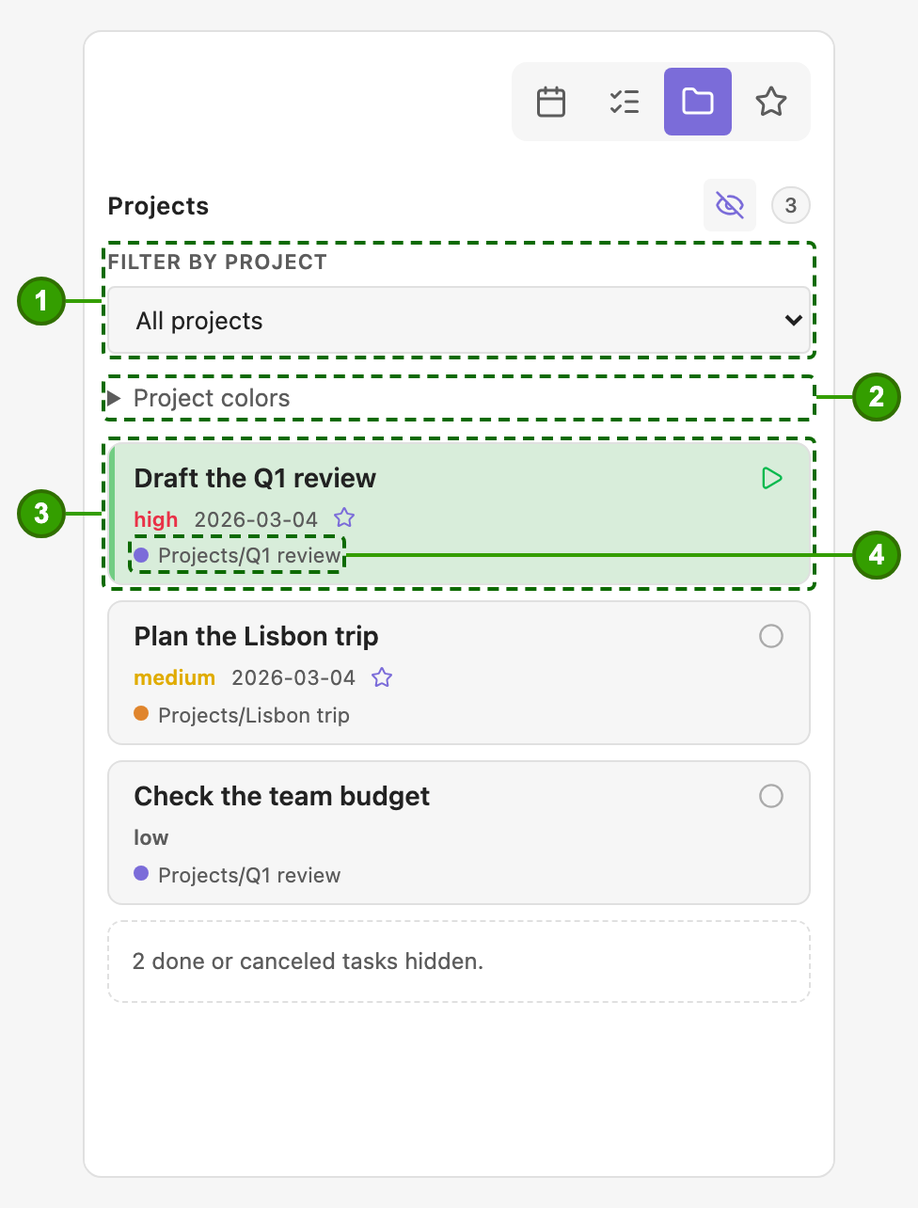
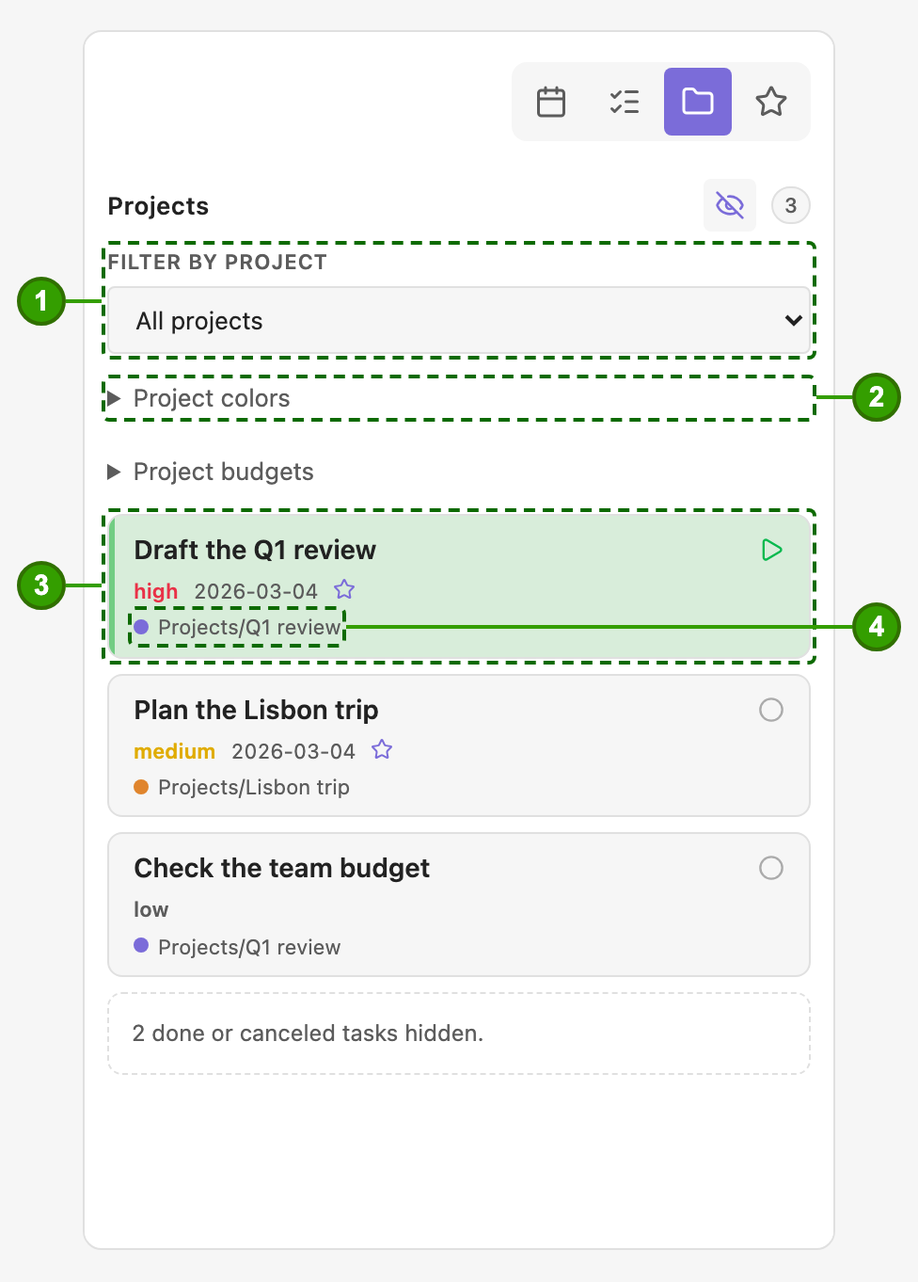
What's new: show only the running release; reorganise the 0.1.4 note with figures; refresh README screenshots

diff --git a/src/whatsNew/releaseNotes.ts b/src/whatsNew/releaseNotes.ts
@@ -4,7 +4,7 @@
  * Shown once per device per release: `settings.lastSeenVersion` remembers the newest version the person has been told about
  * (never synced on purpose), and `notesToShow` picks the entries newer than that and not newer than the version that is
  * running. Only the `X.Y.Z` part is compared, so every beta of a version counts as that version: a tester sees its note on the
- * first beta that has it, not again on later betas or on the stable release. Notes stack within a minor line: never delete an
+ * first beta that has it, not again on later betas or on the stable release. Notes stack within a minor line so a device that skipped a release is told about each: never delete an
  * earlier entry of the line you are in (`npm run check-release` fails if you do). A fresh install is told nothing, it gets the
  * onboarding card instead. See docs/onboarding-and-whats-new.md.
  */
@@ -29,21 +29,17 @@ export const RELEASE_NOTES: ReleaseNote[] = [
   {
     version: "0.1.4",
     title: "What's new in Organized 0.1.4",
-    intro: "Block time for the future, and see estimate next to actual.",
+    intro: "Repeat rules, planned time and budgets, and safer use on several devices. These are the changes since 0.1.3.",
     items: [
-      { title: "Calendar follows your daily note", text: "Open or create a daily note and the side panel's calendar and day view move to that day. Paging to another day in the day view opens that day's daily note when it exists." },
+      { title: "Repeat rules", text: "Type [r] in a todo, or tap the Recurring pill, to choose how it repeats: one tap for every day, weekday, week, month or year, or set your own, such as every 3 weeks on Monday and Thursday, with a form that says the result in words. The rule is saved in the task note, and the task shows up in the daily notes that match it.", figure: "repeat" },
+      { title: "Plan time ahead", text: "Tap an empty spot on the Day grid, or use Add time with a time still to come, to set aside time for a task today or on a day ahead. Planned blocks are dashed and never count as worked time; one that is over can be logged as worked. The task's Timer card shows Tracked so far and Planned, so you can compare your estimate with what it took. A setting under Task behavior (off by default) sets a task in progress when its planned block begins.", figure: "plan" },
+      { title: "Time budgets", text: "Set a budget on a task's Timer card, or a total, daily, weekly or monthly budget on a project (Projects tab, or the project note's properties). A slim bar shows tracked and planned time against it, with what is left in words; go over and it grows red. No budget, no bar." },
+      { title: "A calmer task panel", text: "Priority, schedule, recurring and projects are small pills in one row, the Timer is one line with icon buttons, and Description, Subtasks and Timer fold away and stay folded for every task. Tap a project pill to open its note." },
+      { title: "Follows your daily note", text: "Organized uses the folder, filename format and template of the core Daily Notes plugin (or Periodic Notes) automatically (Settings → Organized → Daily notes switches back to custom values; installs that already set them keep them). Open or create a daily note and the side panel's calendar moves to that day; paging the day view on a desktop opens that day's note, and on a phone it opens when you close the panel." },
+      { title: "Several devices without sync conflicts", text: "Settings → Organized → This device: set a phone or tablet to Secondary (it edits tasks but never creates or fills daily notes) or Mirror (view only; every change is refused with a notice). The choice stays on that device. Use it where a daily note may be opened before your main device has synced it.", figure: "devices" },
       { title: "Repairs for recurring tasks", text: "Two commands: Add missing recurring tasks to this daily note, and Remove duplicate recurring lines in this note (for a note two devices both filled). Task notes that Organized has to leave out, such as sync conflict copies, are now named in a notice instead of silently not repeating." },
-      { title: "Several devices without sync conflicts", text: "Settings → Organized → This device: set a phone or tablet to Secondary (it edits tasks but never creates or fills daily notes) or Mirror (view only; every change is refused with a notice). The choice stays on that device. Use it where a daily note may be opened before your main device has synced it." },
-      { title: "Project picker from the keyboard", text: "Arrow keys move through the projects, Enter ticks one, Enter in the search box picks the best match and Ctrl/Cmd+Enter saves. On a phone the list stays above the keyboard so every project can be reached." },
-      { title: "Follows your Daily Notes plugin", text: "Organized now uses the folder, filename format and template of the core Daily Notes plugin (or Periodic Notes) automatically, so there is nothing to copy over. Settings → Organized → Daily notes lets you switch back to custom values; installs that already set them keep them." },
-      { title: "Repeat rules", text: "Type [r] in a todo, or tap the Recurring pill, to choose how it repeats: one tap for every day, weekday, week, month or year, or set your own, such as every 3 weeks on Monday and Thursday, with a form that says the result in words. The rule is saved in the task note, and the task shows up in the daily notes that match it." },
-      { title: "Plan time ahead", text: "Tap an empty spot on the Day grid, or use Add time with a time still to come, to set aside time for a task today or on a day ahead. Planned blocks are dashed and never count as worked time; one that is over can be logged as worked." },
-      { title: "Tracked and planned on the task", text: "The task's Timer card shows Tracked so far and Planned, so you can compare your estimate with what it took." },
-      { title: "Fold the task panel", text: "Description, Subtasks and Timer fold away with a chevron and stay folded for every task. The Timer now has icon buttons (start or stop, add time, budget) on its header row." },
-      { title: "A denser task panel", text: "Priority, schedule, recurring and projects are now small pills in one row, the Timer is one line with its buttons side by side, and an empty description is one button. Tap a project pill to open its note." },
-      { title: "Project time budgets", text: "Give a project a total, daily, weekly or monthly budget (Projects tab, or the project note's properties). Every task in it shows a bar per budget, counting all the project's tasks. No budget, nothing shown." },
-      { title: "Time budget", text: "Set a budget on the Timer card and a slim bar shows tracked and planned time against it, with what is left in words. Go over and the bar grows with the overrun in red. No budget, no bar." },
-      { title: "Tasks start at their planned time", text: "A new setting under Task behavior, off by default: while Obsidian is open, a task is set in progress when its planned block begins (no timer starts) and back to open, with a notice, when it ends." },
+      { title: "Project picker from the keyboard", text: "Arrow keys and Tab move through the search box, the projects and Save links, Enter ticks one, Enter in the search box picks the best match and Ctrl/Cmd+Enter saves. On a phone the list stays above the keyboard so every project can be reached." },
+      { title: "Steadier on a phone", text: "Tapping outside the press-and-hold menu closes it without ticking the todo, and a todo's priority and projects that do not fit its line stay right-aligned on a row of their own." },
     ],
   },
   {
@@ -79,40 +75,45 @@ function compare(a: [number, number, number], b: [number, number, number]): numb
   return 0;
 }
 
-/**
- * The entries to show: newer than `lastSeen`, not newer than `current`, oldest first, so someone who skipped a release is
- * told about both in the order they happened. An empty or unreadable `lastSeen` means "never told anything"; an
- * unreadable `current` shows nothing rather than guessing.
- */
-export function notesToShow(lastSeen: string, current: string, notes: ReleaseNote[] = RELEASE_NOTES): ReleaseNote[] {
+/** Every note not newer than `current`, oldest first. */
+function upTo(current: string, notes: ReleaseNote[]): ReleaseNote[] {
   const cur = baseVersion(current);
   if (!cur) return [];
-  const seen = baseVersion(lastSeen) ?? [0, 0, 0];
   return notes
     .filter((n) => {
       const v = baseVersion(n.version);
-      return v !== null && compare(v, seen) > 0 && compare(v, cur) <= 0;
+      return v !== null && compare(v, cur) <= 0;
     })
     .sort((a, b) => compare(baseVersion(a.version) as [number, number, number], baseVersion(b.version) as [number, number, number]));
 }
 
 /**
- * What the "Show what's new" command opens: every note of the running minor line (0.9.0 and 0.9.1 for a 0.9.1), oldest
- * first, so someone can look back at the whole line on demand. The popup after an update shows each release only once;
- * this is the way back. A version whose line has no note of its own falls back to the newest note there is.
+ * The entries to show: newer than `lastSeen`, not newer than `current`, oldest first, so someone who skipped a release is
+ * told about both in the order they happened. An empty or unreadable `lastSeen` is not "the whole history": a device that
+ * has never been told anything gets the note of the running release only. An unreadable `current` shows nothing rather
+ * than guessing.
+ */
+export function notesToShow(lastSeen: string, current: string, notes: ReleaseNote[] = RELEASE_NOTES): ReleaseNote[] {
+  const seen = baseVersion(lastSeen);
+  if (!seen) {
+    const latest = latestNote(current, notes);
+    return latest ? [latest] : [];
+  }
+  return upTo(current, notes).filter((n) => compare(baseVersion(n.version) as [number, number, number], seen) > 0);
+}
+
+/**
+ * What the "Show what's new" command opens: the note of the running release, i.e. what changed since the last stable one,
+ * not the history of the line. The popup after an update shows each release only once; this is the way back. A version
+ * without a note of its own falls back to the newest note there is.
  */
 export function notesOfLine(current: string, notes: ReleaseNote[] = RELEASE_NOTES): ReleaseNote[] {
-  const cur = baseVersion(current);
-  const line = notesToShow("", current, notes).filter((n) => {
-    const v = baseVersion(n.version);
-    return cur !== null && v !== null && v[0] === cur[0] && v[1] === cur[1];
-  });
   const latest = latestNote(current, notes);
-  return line.length > 0 ? line : latest ? [latest] : [];
+  return latest ? [latest] : [];
 }
 
 /** The newest note that is not newer than `current`. */
 export function latestNote(current: string, notes: ReleaseNote[] = RELEASE_NOTES): ReleaseNote | null {
-  const all = notesToShow("", current, notes);
+  const all = upTo(current, notes);
   return all.length > 0 ? all[all.length - 1] : null;
 }

diff --git a/src/onboardingFigures.ts b/src/onboardingFigures.ts
@@ -8,9 +8,9 @@ import { LONG_PRESS_MARKERS } from "./longPress";
  * screenshots: they follow the user's theme and font, add almost nothing to the plugin's size and cannot go stale the way
  * a picture does. They are decoration (aria-hidden, not interactive); the step's text carries the meaning.
  */
-export type FigureId = "settings" | "tabs" | "calendar" | "follow" | "forward" | "card" | "props" | "keys" | "commands" | "press" | "hotkey";
+export type FigureId = "settings" | "tabs" | "calendar" | "follow" | "forward" | "card" | "props" | "keys" | "commands" | "press" | "hotkey" | "repeat" | "plan" | "devices";
 /** Every figure id; the tests walk it so a new figure cannot ship undrawn. */
-export const FIGURE_IDS: FigureId[] = ["settings", "tabs", "calendar", "follow", "forward", "card", "props", "keys", "commands", "press", "hotkey"];
+export const FIGURE_IDS: FigureId[] = ["settings", "tabs", "calendar", "follow", "forward", "card", "props", "keys", "commands", "press", "hotkey", "repeat", "plan", "devices"];
 
 const box = (host: HTMLElement, marker: string): void => {
   const b = host.createSpan({ cls: "organized-welcome-fig-box", text: marker === "x" ? "" : marker.trim(), attr: { "data-marker": marker } });
@@ -152,7 +152,20 @@ function hotkeyFigure(fig: HTMLElement): void {
   row.createSpan({ cls: "organized-welcome-fig-pill", text: "Alt + X" });
 }
 
-const BUILDERS: Record<FigureId, (fig: HTMLElement) => void> = { settings: settingsFigure, tabs: tabsFigure, calendar: calendarFigure, follow: followFigure, forward: forwardFigure, card: cardFigure, props: propsFigure, keys: keysFigure, commands: commandsFigure, press: pressFigure, hotkey: hotkeyFigure };
+/** A row of the figure: a label chip and what it does. */
+const chipRows = (fig: HTMLElement, rows: [string, string][]): void => {
+  const list = fig.createDiv({ cls: "organized-welcome-fig-rows" });
+  for (const [chip, role] of rows) {
+    const row = list.createDiv({ cls: "organized-welcome-fig-row" });
+    row.createSpan({ cls: "organized-welcome-fig-pill", text: chip });
+    row.createSpan({ cls: "organized-welcome-fig-row-role", text: role });
+  }
+};
+const repeatFigure = (fig: HTMLElement): void => chipRows(fig, [["Every day", "One tap"], ["Weekdays", "Monday to Friday"], ["Custom", "Every 3 weeks on Monday and Thursday"]]);
+const planFigure = (fig: HTMLElement): void => chipRows(fig, [["09:00–10:30", "Draft the Q1 review (planned)"], ["10:30–11:00", "Reply to Anna (planned)"], ["Tracked 1h 13min", "of 1h 30min planned"]]);
+const devicesFigure = (fig: HTMLElement): void => chipRows(fig, [["Main", "Edits and fills daily notes"], ["Secondary", "Edits, never creates daily notes"], ["Mirror", "View only"]]);
+
+const BUILDERS: Record<FigureId, (fig: HTMLElement) => void> = { settings: settingsFigure, tabs: tabsFigure, calendar: calendarFigure, follow: followFigure, forward: forwardFigure, card: cardFigure, props: propsFigure, keys: keysFigure, commands: commandsFigure, press: pressFigure, hotkey: hotkeyFigure, repeat: repeatFigure, plan: planFigure, devices: devicesFigure };
 
 /** Draw the illustration `id` into `parent`. */
 export function renderFigure(parent: HTMLElement, id: FigureId): HTMLElement {

diff --git a/scripts/screenshots/entry.ts b/scripts/screenshots/entry.ts
@@ -15,7 +15,7 @@ const make = (id: string, title: string, rest: Partial<Task>): Task => ({ ...new
 const move = (id: number, kind: Movement['kind'], from: number, to: number): Movement => ({ id: `m${id}`, kind, source: 'manual', from: day(from), to: day(to), at: at(from, 20) });
 const review = 'Projects/Q1 review.md', lisbon = 'Projects/Lisbon trip.md', workshop = 'Projects/Workshop.md';
 const tasks: Task[] = [
-  make('q1review01', 'Draft the Q1 review', { movement_history: [move(1, 'schedule', 1, 1), move(2, 'forward', 1, 2), move(3, 'forward', 2, 3), move(4, 'forward', 3, 4)], status: 'in_progress', priority: 'high', starred: true, projects: [review], scheduled: day(4), time_tracking_started_at: at(4, 14, 30), time_tracked_seconds: 5400, work_sessions: [{ start: at(4, 9, 20), end: at(4, 10, 15) }, { start: at(4, 13), end: at(4, 14) }, { start: at(3, 14), end: at(3, 16, 30) }, { start: at(2, 10), end: at(2, 11, 30) }] }),
+  make('q1review01', 'Draft the Q1 review', { movement_history: [move(1, 'schedule', 1, 1), move(2, 'forward', 1, 2), move(3, 'forward', 2, 3), move(4, 'forward', 3, 4)], status: 'in_progress', priority: 'high', starred: true, recurring: true, recurrence: 'every 3 weeks on thu', recurrence_periods: [{ start: day(1), stop: null }], time_budget_seconds: 4 * 3600, planned_sessions: [{ start: at(4, 16), end: at(4, 17, 30) }], projects: [review], scheduled: day(4), time_tracking_started_at: at(4, 14, 30), time_tracked_seconds: 5400, work_sessions: [{ start: at(4, 9, 20), end: at(4, 10, 15) }, { start: at(4, 13), end: at(4, 14) }, { start: at(3, 14), end: at(3, 16, 30) }, { start: at(2, 10), end: at(2, 11, 30) }] }),
   make('anna000001', 'Reply to Anna about the offsite', { status: 'completed', closed_at: at(4, 9), work_sessions: [{ start: at(4, 8, 30), end: at(4, 9, 15) }] }),
   make('lisbon0001', 'Plan the Lisbon trip', { priority: 'medium', starred: true, projects: [lisbon], scheduled: day(4), work_sessions: [{ start: at(4, 10, 30), end: at(4, 11, 45) }, { start: at(3, 9), end: at(3, 10) }] }),
   make('dentist001', 'Book the dentist', { scheduled: day(4) }),

diff --git a/src/tests/whatsNew.test.ts b/src/tests/whatsNew.test.ts
@@ -20,9 +20,10 @@ describe("notesToShow", () => {
   it("shows everything newer than last seen up to the running version, oldest first", () => {
     expect(notesToShow("1.1.0", "1.2.1", NOTES).map((n) => n.version)).toEqual(["1.2.0", "1.2.1"]);
   });
-  it("treats an empty or unreadable last-seen as never told anything", () => {
+  it("gives an empty or unreadable last-seen the running release only, not the whole history", () => {
     expect(notesToShow("", "1.1.0", NOTES).map((n) => n.version)).toEqual(["1.1.0"]);
-    expect(notesToShow("junk", "1.1.0", NOTES).map((n) => n.version)).toEqual(["1.1.0"]);
+    expect(notesToShow("junk", "1.2.1", NOTES).map((n) => n.version)).toEqual(["1.2.1"]);
+    expect(notesToShow("", "0.1.0", NOTES)).toEqual([]);
   });
   it("does not repeat a note for a beta of a version already seen", () => {
     expect(notesToShow("1.2.0", "1.2.0-beta.3", NOTES)).toEqual([]);
@@ -31,13 +32,13 @@ describe("notesToShow", () => {
     expect(notesToShow("", "dev", NOTES)).toEqual([]);
   });
   it("uses the shipped list by default", () => {
-    expect(notesToShow("", "999.0.0").length).toBe(RELEASE_NOTES.length);
+    expect(notesToShow("", "999.0.0")).toEqual([RELEASE_NOTES[0]]);
   });
 });
 
 describe("notesOfLine / latestNote", () => {
-  it("returns every note of the running minor line, oldest first", () => {
-    expect(notesOfLine("1.2.1", NOTES).map((n) => n.version)).toEqual(["1.2.0", "1.2.1"]);
+  it("returns the note of the running release only", () => {
+    expect(notesOfLine("1.2.1", NOTES).map((n) => n.version)).toEqual(["1.2.1"]);
   });
   it("falls back to the newest earlier note when the line has none", () => {
     expect(notesOfLine("1.3.0", NOTES).map((n) => n.version)).toEqual(["1.2.1"]);

diff --git a/src/tests/whatsNewFlow.dom.test.ts b/src/tests/whatsNewFlow.dom.test.ts
@@ -72,9 +72,9 @@ describe('an update', () => {
     expect([...news()[0].contentEl.querySelectorAll('h3')].map(n => n.textContent)).toEqual(["What's new in Organized 0.1.2", "What's new in Organized 0.1.3"]);
     expect((await s.saved()).lastSeenVersion).toBe('0.1.3');
   });
-  it('tells someone who already saw 0.1.2 only about 0.1.3, and a pre-feature install about both', async () => {
+  it('tells someone who already saw 0.1.2 only about 0.1.3, and a pre-feature install only about the running release', async () => {
     await start({ data: stored({ onboardingSeen: true, lastSeenVersion: '0.1.2' }), version: '0.1.3' }); expect(news()[0].notes.map(n => n.version)).toEqual(['0.1.3']);
-    await start({ data: stored({ taskFolder: 'Tasks' }), version: '0.1.3' }); expect(news()[0].notes.map(n => n.version)).toEqual(['0.1.2', '0.1.3']);
+    await start({ data: stored({ taskFolder: 'Tasks' }), version: '0.1.3' }); expect(news()[0].notes.map(n => n.version)).toEqual(['0.1.3']);
   });
   it('treats every beta of a version as that version, so later betas and the stable release stay quiet', async () => {
     for (const version of ['0.1.2-beta.8', '0.1.2-beta.99', '0.1.2']) { await start({ data: seen('0.1.2-beta.7'), version }); expect(news(), version).toHaveLength(0); }

diff --git a/src/tests/onboarding.dom.test.ts b/src/tests/onboarding.dom.test.ts
@@ -4,6 +4,7 @@ import { describe, expect, it } from "vitest";
 import { installObsidianDom } from "./__mocks__/obsidianDom";
 import { ONBOARDING_STEPS } from "../onboarding";
 import { FIGURE_IDS, renderFigure } from "../onboardingFigures";
+import { RELEASE_NOTES } from "../whatsNew/releaseNotes";
 
 installObsidianDom();
 const css = readFileSync("styles.css", "utf8");
@@ -17,7 +18,7 @@ describe("onboarding content and figures", () => {
       if (step.figure) expect(FIGURE_IDS).toContain(step.figure);
     }
     // Every figure is used by some step, so none ships undrawn or unused.
-    expect(new Set(ONBOARDING_STEPS.flatMap(s => s.figure ?? []))).toEqual(new Set(FIGURE_IDS));
+    expect(new Set([...ONBOARDING_STEPS.flatMap(s => s.figure ?? []), ...RELEASE_NOTES.flatMap(n => n.items.flatMap(i => i.figure ?? []))])).toEqual(new Set(FIGURE_IDS));
   });
   it("draws every figure as aria-hidden decoration that uses only styled classes", () => {
     for (const id of FIGURE_IDS) {

diff --git a/src/main.ts b/src/main.ts
@@ -172,7 +172,7 @@ export default class Organized extends Plugin {
   showOnboarding(remember: boolean): void {
     new OnboardingModal(this.app, () => { if (remember && !this.settings.onboardingSeen) { this.settings.onboardingSeen = true; this.settings.lastSeenVersion = this.manifest.version; this.saveSettings(false); } }).open();
   }
-  /** Opens this version's notes again (the whole minor line, oldest first), whatever has been shown before. */
+  /** Opens the note of this release again (what changed since the last stable one), whatever has been shown before. */
   showWhatsNew(): void {
     const notes = notesOfLine(this.manifest.version);
     if (!notes.length) { new Notice(`There are no release notes for ${this.manifest.version}.`); return; }

diff --git a/README.md b/README.md
@@ -112,13 +112,13 @@ That is all a todo costs until it needs more: a title and a status. No empty for
 - **2** · A row per day; tap it to open that day.
 - **3** · The bars are the time tasks were in progress, in the colour of their project.
 
-<img src="resources/screenshots/day-annotated.png" alt="The Calendar tab in day view: the day's tasks above a time grid with a block for each stretch of work and a line for the current time." width="360">
+<img src="resources/screenshots/day-annotated.png" alt="The Calendar tab in day view: the day's tasks above a time grid with a block for each stretch of work, a dashed planned block and a line for the current time." width="360">
 
 - **1** · A task of the day with its status, priority, date, star and project.
 - **2** · Finished tasks stay in the list, marked done.
 - **3** · A plain, unlinked todo from the daily note is listed too; it is labelled *Regular todo*.
 - **4** · **Add time worked** by hand, or tap any block to correct it. Tap an empty spot on the grid to plan an hour there; planned blocks have a dashed outline and can be anywhere, including days ahead. A planned block that is over can be logged as worked.
-- **5** · The time grid: a block for each stretch of work, overlapping blocks side by side.
+- **5** · The time grid: a block for each stretch of work, overlapping blocks side by side. The dashed block after the now line is planned time (here 16:00–17:30), not yet worked.
 - **6** · The line for **now**.
 
 ### Projects
@@ -198,7 +198,7 @@ flowchart TB
 
 The first time Organized starts on a fresh install it shows a short **onboarding card**: twelve steps with small illustrations: the two settings to make first, the idea behind the plugin, the side panel and calendar, showing task properties in the note, the checkbox letters, pressing and holding on a phone, jumping into a checkbox from the keyboard, and how to start and leave. Skip it whenever you like; it appears once. Reopen it with the command **Organized: Show onboarding card** or the **Onboarding card** button in **Settings → Organized → Help**.
 
-After an update, Organized shows a short **What's new** note once, instead of the tour (a fresh install never sees it). Reopen the notes for your version with **Organized: Show what's new**, or switch them off with **Show what's new after updates** under **Settings → Organized → Help**.
+After an update, Organized shows a short **What's new** note once, instead of the tour (a fresh install never sees it). The note covers what changed since the last stable release, not the whole history. Reopen it with **Organized: Show what's new**, or switch them off with **Show what's new after updates** under **Settings → Organized → Help**.
 
 ## Leaving Organized
 

diff --git a/docs/onboarding-and-whats-new.md b/docs/onboarding-and-whats-new.md
@@ -25,13 +25,13 @@ Obsidian Sync can carry `data.json` to other devices, so "per device" is a hope,
 About a second and a half after `onLayoutReady` (Obsidian runs that at once when the plugin is switched on in a running session), never while writes are paused:
 
 1. Tour owed (`onboardingSeen` false): show the tour; closing it sets `onboardingSeen` and `lastSeenVersion`. No What's new meanwhile.
-2. Otherwise, with `showWhatsNew` on and notes newer than `lastSeenVersion` and not newer than the running version: record `lastSeenVersion`, wait for the save, then open the popup.
+2. Otherwise, with `showWhatsNew` on and notes newer than `lastSeenVersion` and not newer than the running version (a device with no `lastSeenVersion` gets only the running release's note, never the whole history): record `lastSeenVersion`, wait for the save, then open the popup.
 
 There is no "real start" test and no restart notice. If this code is running, this version is the one that is loaded, and its commands, settings group and views were registered by this same `onload`; a file swap that left old code running cannot run this code at all. The delay is only so the card does not open under the settings window that switched the plugin on. Unverified until a device confirms it: that a BRAT update reloads the plugin so this `onload` runs (otherwise nothing shows until the plugin is next toggled or Obsidian restarts).
 
 A beta counts as its stable version (`0.1.2-beta.9` is `0.1.2`): a tester sees the note once, on the first beta that has it. To see it again on a device: Settings → Help → turn **Show what's new after updates** off and on (this clears `lastSeenVersion`), then restart.
 
-Manual ways in: commands **Show onboarding card** and **Show what's new** (the whole running minor line), and the two buttons under Settings → Help.
+Manual ways in: commands **Show onboarding card** and **Show what's new** (the running release's note only, not the history of the line), and the two buttons under Settings → Help.
 
 ## Writing the note
 

diff --git a/CHANGELOG.md b/CHANGELOG.md
@@ -2,6 +2,7 @@
 
 ## Unreleased
 
+- **What's new** now shows the note of the running release only (what changed since the last stable one), both in the popup after an update and from *Show what's new*, instead of the history of the whole minor line. The 0.1.4 note is reorganised by benefit, with pictures for repeat rules, planned time and device roles. README screenshots show a repeating task, a time budget and a planned block.
 - On a phone, the day you paged to in the side panel's day view now opens as the daily note when you close the panel (paging itself still keeps the panel open).
 - On a phone, paging through days in the side panel's day view no longer opens the daily note (which closed the panel after one day). Desktop still opens it.
 - Project picker: the project row and the *Save links* button that have keyboard focus are now outlined, so Tab and the arrow keys visibly reach Save.
